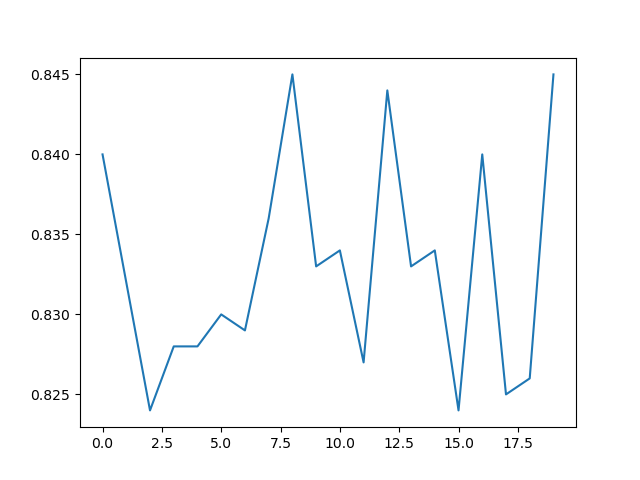
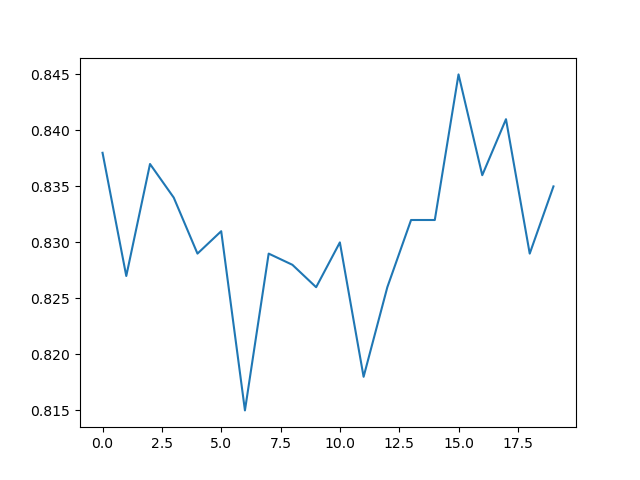
play

diff --git a/matrix_test.py b/matrix_test.py
@@ -1,0 +1,127 @@
+# import numpy as np
+# import matplotlib.pyplot as plt
+# import networkx as nx
+# from plot import plot_adj_matrix, plot_directed_graph
+
+def generate_partition_matrix(n, k):
+    """
+    生成一个 n 行 k 列的分区矩阵 P，每行恰好有一个非零项（1），且列是正交的。
+    确保每列至少有一个值为1。
+    
+    参数:
+    n: 行数（节点数量）
+    k: 列数（簇的数量）
+    
+    返回:
+    一个 n x k 的分区矩阵 P
+    """
+    if k > n:
+        raise ValueError("列数 k 不能大于行数 n")
+
+    # 初始化全为0的矩阵
+    P = np.zeros((n, k), dtype=int)
+    
+    # 确保每列至少有一个值为1
+    rows = np.random.choice(n, k, replace=False)
+    for i in range(k):
+        P[rows[i], i] = 1
+    
+    # 对于剩余的行随机选择一个列位置设置为1
+    for i in range(n):
+        if not np.any(P[i]):
+            P[i, np.random.choice(k)] = 1
+    
+    return P
+
+
+# # 随机生成一个10x10的邻接矩阵，元素为0或1
+# adj_matrix = np.random.randint(0, 2, size=(6, 6))
+
+# # 去除自环，即对角线元素设为0
+# np.fill_diagonal(adj_matrix, 0)
+
+# p = generate_partition_matrix(6,4)
+
+# # 调用函数绘制邻接矩阵
+# plot_adj_matrix(adj_matrix, 'adj_matrix.png')
+# plot_directed_graph(adj_matrix, 'directed_graph.png')
+
+# W = p.T @ adj_matrix @ p
+# print(p)
+# # 调用函数绘制邻接矩阵
+# plot_adj_matrix(W, 'adj_matrix_W.png')
+# plot_directed_graph(W, 'directed_graph_W.png')
+
+
+
+
+import networkx as nx
+import string
+import matplotlib.pyplot as plt
+import numpy as np
+
+# 生成一个图，节点数为n
+n = 4  # 你可以改变n的值来生成不同数量的节点
+
+# 创建一个带有n个节点的图
+G = nx.DiGraph()
+
+# 节点标签从A开始，按字母顺序排列
+labels = list(string.ascii_uppercase[:n])
+
+# 添加节点
+G.add_nodes_from(labels)
+
+# 确保没有孤立节点的随机添加边
+for i in range(n):
+    connected = False
+    for j in range(n):
+        if i != j and np.random.rand() > 0.5:  # 50%概率添加边
+            G.add_edge(labels[i], labels[j])
+            connected = True
+    # 如果没有添加任何边，强制添加一条边
+    if not connected:
+        j = np.random.choice([x for x in range(n) if x != i])
+        G.add_edge(labels[i], j)
+
+
+# 绘制图形
+pos = nx.spring_layout(G)
+plt.figure(figsize=(6,6))
+nx.draw(G, pos, with_labels=True, node_color='lightblue', node_size=700, font_size=12, font_color='black', edge_color='gray', arrows=True)
+plt.show()
+
+
+#生成新图N，N是这样得到的：p=generate_partition_matrix(n,k)，p(i,j)=1就意味着G的第i个节点label要append到N的第j个节点的label上
+N = nx.MultiDiGraph()
+k = 3
+p = generate_partition_matrix(n, k)
+print(p)
+
+# Create new labels for the coarsened graph
+new_labels = []
+for j in range(k):
+    cluster_label = ''
+    for i in range(n):
+        if p[i, j] == 1:
+            cluster_label += labels[i]
+    new_labels.append(cluster_label)
+
+# Add nodes to the new graph with the new labels
+N.add_nodes_from(new_labels)
+
+# Add edges to the new graph based on the original graph G and the partition matrix p
+for i in range(n):
+    for j in range(n):
+        if G.has_edge(labels[i], labels[j]):
+            src_cluster = np.argmax(p[i])
+            dst_cluster = np.argmax(p[j])
+            if src_cluster != dst_cluster:
+                N.add_edge(new_labels[src_cluster], new_labels[dst_cluster])
+
+# Draw the coarsened graph
+pos = nx.spring_layout(N)
+plt.figure(figsize=(6, 6))
+
+nx.draw(N, pos, with_labels=True, node_color='lightgreen', node_size=700, font_size=12, font_color='black', edge_color='gray', arrows=True)
+plt.show()

diff --git a/APPNP/train.py b/APPNP/train.py
@@ -33,33 +33,11 @@ if not os.path.isdir(path):
 device = torch.device('cuda' if torch.cuda.is_available() else 'cpu')
 args.num_features, args.num_classes, candidate, C_list, Gc_list = coarsening(args.dataset, 1-args.coarsening_ratio, args.coarsening_method)
 model = Net(args).to(device)
-all_acc = []
 
-for _ in range(args.runs):
 
-    data, coarsen_features, coarsen_train_labels, coarsen_train_mask, coarsen_val_labels, coarsen_val_mask, coarsen_edge = load_data(
-        args.dataset, candidate, C_list, Gc_list, args.experiment)
 
-    data = data.to(device)
-    coarsen_features = coarsen_features.to(device)
-    coarsen_train_labels = coarsen_train_labels.to(device)
-    coarsen_train_mask = coarsen_train_mask.to(device)
-    coarsen_val_labels = coarsen_val_labels.to(device)
-    coarsen_val_mask = coarsen_val_mask.to(device)
-    coarsen_edge = coarsen_edge.to(device)
-
-    if args.normalize_features:
-        coarsen_features = F.normalize(coarsen_features, p=1)
-        data.x = F.normalize(data.x, p=1)
-
-    model.reset_parameters()
-    optimizer = Adam(model.parameters(), lr=args.lr, weight_decay=args.weight_decay)
-
-    best_val_loss = float('inf')
-    val_loss_history = []
-
+def train(args, path, model, test_acces, data, coarsen_features, coarsen_train_labels, coarsen_train_mask, coarsen_val_labels, coarsen_val_mask, coarsen_edge, optimizer, best_val_loss, val_losses):
     for epoch in tqdm(range(args.epochs), desc="Training Epochs"):
-
         model.train()
         optimizer.zero_grad()
         out = model(coarsen_features, coarsen_edge)
@@ -75,9 +53,9 @@ for _ in range(args.runs):
             best_val_loss = val_loss
             torch.save(model.state_dict(), path + 'checkpoint-best-acc.pkl')
 
-        val_loss_history.append(val_loss)
+        val_losses.append(val_loss)
         if args.early_stopping > 0 and epoch > args.epochs // 2:
-            tmp = tensor(val_loss_history[-(args.early_stopping + 1):-1])
+            tmp = tensor(val_losses[-(args.early_stopping + 1):-1])
             if val_loss > tmp.mean().item():
                 break
 
@@ -86,11 +64,30 @@ for _ in range(args.runs):
     pred = model(data.x, data.edge_index).max(1)[1]
     test_acc = int(pred[data.test_mask].eq(data.y[data.test_mask]).sum().item()) / int(data.test_mask.sum())
     print(test_acc)
-    all_acc.append(test_acc)
-#plot all_acc 
-plt.figure()
-plt.plot(all_acc)
-plt.savefig('all_acc.png')
+    test_acces.append(test_acc)
 
-print('ave_acc: {:.4f}'.format(np.mean(all_acc)), '+/- {:.4f}'.format(np.std(all_acc)))
+for _ in range(args.runs):
+
+    data, coarsen_features, coarsen_train_labels, coarsen_train_mask, coarsen_val_labels, coarsen_val_mask, coarsen_edge = \
+        map(lambda x: x.to(device), load_data(args.dataset, candidate, C_list, Gc_list, args.experiment))
+
+    if args.normalize_features:
+        coarsen_features = F.normalize(coarsen_features, p=1)
+        data.x = F.normalize(data.x, p=1)
+
+    model.reset_parameters()
+    optimizer = Adam(model.parameters(), lr=args.lr, weight_decay=args.weight_decay)
+
+    best_val_loss = float('inf')
+    val_losses = []
+    test_acces = []
+    train(args, path, model, test_acces, data, coarsen_features, coarsen_train_labels, coarsen_train_mask, coarsen_val_labels, coarsen_val_mask, coarsen_edge, optimizer, best_val_loss, val_losses)
+    
+    #plot all_acc 
+    plt.figure()
+    plt.plot(test_acces)
+    plt.savefig('all_acc.png')
+
+
+print('ave_acc: {:.4f}'.format(np.mean(test_acces)), '+/- {:.4f}'.format(np.std(test_acces)))
 

diff --git a/plot.py b/plot.py
@@ -1,0 +1,42 @@
+def plot_adj_matrix(adj_matrix, img_path='adj_matrix.png'):
+    import matplotlib.pyplot as plt
+
+    # 创建一个颜色映射，值为1的格子显示为蓝色，值为0的格子显示为白色
+    fig, ax = plt.subplots()
+    cax = ax.matshow(adj_matrix, cmap='Blues')
+
+    # 在每个格子上写上矩阵的值
+    for i in range(adj_matrix.shape[0]):
+        for j in range(adj_matrix.shape[1]):
+            c = adj_matrix[i, j]
+            ax.text(j, i, str(c), va='center', ha='center')
+
+    # 去掉坐标轴
+    plt.savefig(img_path)
+    # 显示图像
+    plt.show()
+
+
+
+def plot_directed_graph(adj_matrix, img_path='directed_graph.png'):
+    import matplotlib.pyplot as plt
+    import networkx as nx
+    
+    nodes = range(adj_matrix.shape[0])
+    # 创建有向图
+    DG = nx.DiGraph()
+
+    # 添加节点
+    DG.add_nodes_from(nodes)
+
+    # 根据邻接矩阵添加有向边
+    for i in range(adj_matrix.shape[0]):
+        for j in range(adj_matrix.shape[1]):
+                if adj_matrix[i, j] > 0:
+                    DG.add_edge(i, j, weight=adj_matrix[i, j], width=adj_matrix[i, j]*10)
+
+    # 绘制有向图
+    pos = nx.spring_layout(DG)  # 使用spring布局
+    plt.figure(figsize=(6,6))
+    nx.draw(DG, pos, with_labels=True, node_color='lightgreen', node_size=700, font_size=12, font_color='black', edge_color='gray', arrows=True)
+    plt.savefig(img_path)
